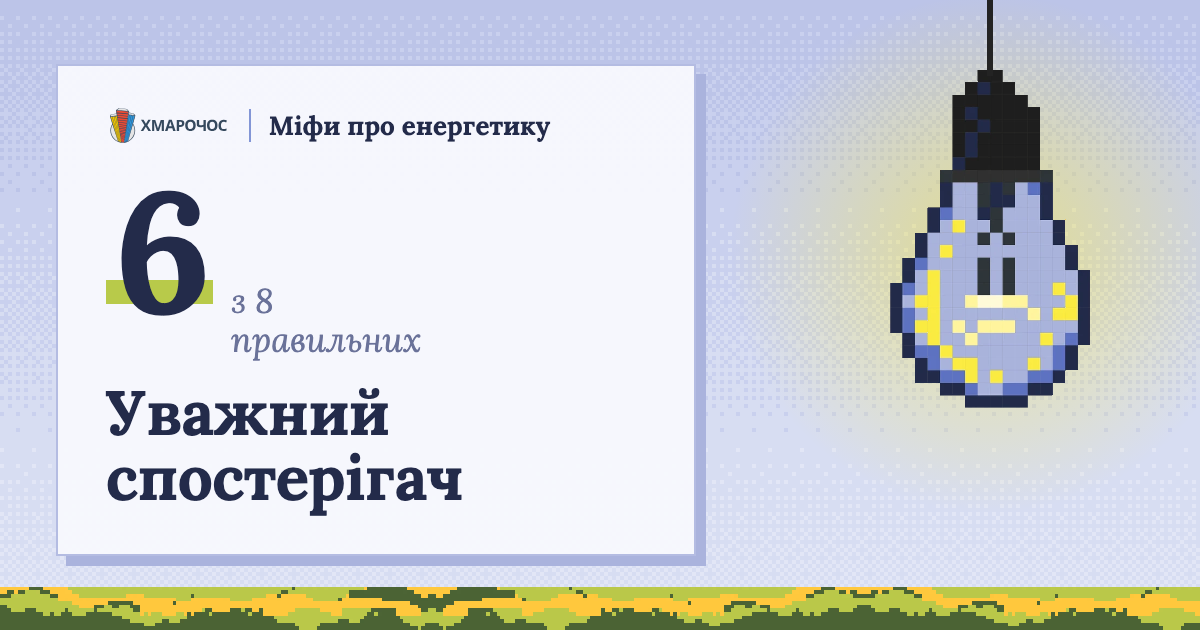
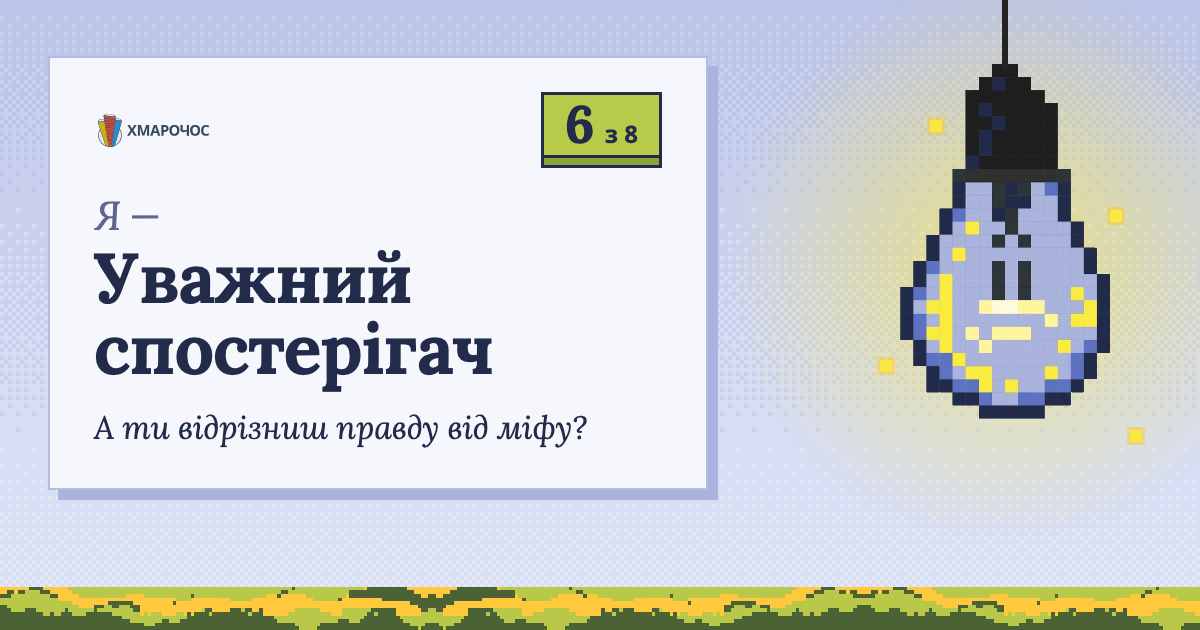
OG під поширення: «Я — <звання>», бали значком, виклик «А ти відрізниш правду від міфу?»; більше простору над кнопками; OG_VERSION 11

Changed region(s): [[0.0308, 0.0905, 0.6167, 0.9048], [0.7092, 0.0, 0.9558, 0.6635], [0.925, 0.6635, 0.9558, 0.7238]]

diff --git a/og-src/og.html b/og-src/og.html
@@ -4,55 +4,61 @@
 <meta charset="utf-8">
 <title>OG</title>
 <!-- OG 1200×630 у стилі «Мережа». Рендерить scripts/render-og.mjs:
-     og.html → public/og-test.png — велика обкладинка ілюстраторки й плашка з назвою;
+     og.html → public/og-test.png — обкладинка ілюстраторки й плашка з назвою та запитанням-викликом;
      og.html?s=<0..8> → public/og-s<N>.png — точні бали; ?l=<slug> → діапазон рівня (старі посилання).
-     Принцип: мало елементів і великі — прев'ю показують дрібно. Обкладинка — у рідній
-     сітці 120×80, збільшена рівно в 7 разів, без розмиття. -->
+     Мета — щоб картинку хотілося переслати: велике «Я — <звання>», бали як ігровий значок,
+     виклик другу «А ти відрізниш правду від міфу?» і великий світний арт рівня. -->
 <style>
 @font-face { font-family: "Open Sans"; src: url("../public/fonts/hm/open-sans-v29-latin_cyrillic-ext-700.woff2") format("woff2"); font-weight: 700; }
 @font-face { font-family: "Lora"; src: url("../public/fonts/hm/lora-v24-latin_cyrillic-ext-700.woff2") format("woff2"); font-weight: 700; }
 @font-face { font-family: "Lora"; src: url("../public/fonts/hm/lora-v24-latin_cyrillic-ext-italic.woff2") format("woff2"); font-weight: 400; font-style: italic; }
-:root { --bg-2: #e6e9f7; --cloud: #aab3dd; --line: #b4bce2; --line-2: #8396d6; --text: #232b4a; --mute: #6a7299; --amber: #f8e840; --amber-2: #fcc63d; --grass: #b8ca4a; --forest: #4d6135; }
+:root { --bg-2: #e6e9f7; --cloud: #aab3dd; --line: #b4bce2; --line-2: #8396d6; --text: #232b4a; --mute: #5d6590; --amber: #f8e840; --amber-2: #fcc63d; --grass: #b8ca4a; --forest: #4d6135; }
 * { box-sizing: border-box; }
 body { margin: 0; width: 1200px; height: 630px; overflow: hidden; position: relative; color: var(--text); font-family: "Open Sans", sans-serif;
   background: url("../public/art/px/sky.png") repeat-x left top / 32px 800px, #e2e6f6; image-rendering: pixelated; }
 .px { image-rendering: pixelated; display: block; }
 .ground { position: absolute; left: 0; right: 0; bottom: 0; height: 72px; background: url("../public/art/px/hills-day.png") repeat-x left bottom / auto 100%; image-rendering: pixelated; }
 body.night .ground { background-image: url("../public/art/px/hills-night.png"); }
-/* плашка: світла, тонка лінія, жорстка піксельна тінь — як на сайті */
 .card { position: absolute; background: rgba(247,248,253,.97); border: 2px solid var(--line); box-shadow: 10px 10px 0 var(--cloud); }
-.logo { height: 46px; display: block; }
-
-/* ——— старт: обкладинка велика праворуч, плашка з назвою заходить на неї ——— */
-.start .cover { position: absolute; right: 0; bottom: 0; width: 720px; height: 480px; }
-.start .card { left: 48px; top: 80px; width: 470px; padding: 36px 40px 42px; }
-.start h1 { margin: 26px 0 0; font: 700 60px/1.03 "Lora", serif; letter-spacing: -.015em; }
-.cta { display: inline-flex; align-items: center; gap: 22px; margin-top: 30px; height: 76px; padding: 0 30px 6px; background: var(--amber); font-weight: 700; font-size: 27px;
+.logo { height: 44px; display: block; }
+/* піксельна кнопка/значок — рамка 3 px і фаска знизу, як на сайті */
+.pxbtn { display: inline-flex; align-items: center; gap: 18px; height: 72px; padding: 0 28px 6px; background: var(--amber); font-weight: 700; font-size: 26px;
   box-shadow: inset 0 0 0 3px var(--text), inset 0 -10px 0 0 var(--amber-2), inset 0 -10px 0 3px var(--text); }
+.hook { font: italic 400 32px/1.3 "Lora", serif; color: var(--mute); }
 
-/* ——— результат: великі бали й звання на плашці, праворуч великий арт рівня ——— */
+/* ——— старт ——— */
+.start .cover { position: absolute; right: 0; bottom: 0; width: 720px; height: 480px; }
+.start .card { left: 48px; top: 64px; width: 500px; padding: 34px 40px 40px; }
+.start h1 { margin: 24px 0 0; font: 700 58px/1.03 "Lora", serif; letter-spacing: -.015em; }
+.start .hook { margin: 16px 0 0; }
+.start .pxbtn { margin-top: 26px; }
+
+/* ——— результат ——— */
 .lvl { display: none; }
 body.level .start { display: none; }
 body.level .lvl { display: block; }
-.lvl .card { left: 56px; top: 64px; width: 640px; padding: 36px 48px 44px; }
-/* шапка плашки — як на сайті: лого й назва тесту через тонку риску */
-.brand { display: flex; align-items: center; gap: 18px; }
-.brand span { padding-left: 18px; border-left: 2px solid var(--line-2); font: 700 26px "Lora", serif; }
-.lvl .score { margin-top: 30px; }
-.score { display: flex; align-items: baseline; gap: 18px; margin-top: 4px; }
-.score b { font: 700 170px/.86 "Lora", serif; letter-spacing: -.04em; padding: 0 8px; background: linear-gradient(transparent 70%, var(--grass) 70% 86%, transparent 86%); }
-.score span { font: italic 400 34px/1.15 "Lora", serif; color: var(--mute); }
-.lvl h1 { margin: 22px 0 0; font: 700 62px/1.04 "Lora", serif; letter-spacing: -.01em; }
+.lvl .card { left: 48px; top: 56px; width: 660px; padding: 34px 44px 40px; }
+.lvl .top { display: flex; align-items: center; justify-content: space-between; }
+/* бали — як ігровий значок */
+.badge { display: inline-flex; align-items: baseline; gap: 10px; height: 76px; padding: 6px 24px 10px; background: var(--grass);
+  box-shadow: inset 0 0 0 3px var(--text), inset 0 -10px 0 0 #8aa23a, inset 0 -10px 0 3px var(--text); }
+.badge b { font: 700 52px/1 "Lora", serif; }
+.badge span { font: 700 24px "Open Sans"; }
+.lvl h1 { margin: 26px 0 0; font: 700 70px/1.02 "Lora", serif; letter-spacing: -.015em; }
+.lvl h1 .me { display: block; font: italic 400 40px/1.1 "Lora", serif; color: var(--mute); margin-bottom: 4px; }
+.lvl .hook { margin: 22px 0 0; color: var(--text); }
+/* великий арт рівня з ореолом */
 .art { position: absolute; display: grid; place-items: center; }
 .art img { position: relative; display: block; }
-.art::before { content: ""; position: absolute; left: 50%; top: 50%; width: 520px; height: 520px; transform: translate(-50%, -50%); background: radial-gradient(closest-side, rgba(248,232,64,.55), rgba(248,232,64,0)); }
-.art.warm::before { background: radial-gradient(closest-side, rgba(252,150,50,.5), rgba(252,150,50,0)); }
-/* лампочка висить на шнурі від верхнього краю картинки */
-.art.bulb { right: 110px; top: 0; padding-top: 70px; }
-.art.bulb::after { content: ""; position: absolute; left: 50%; top: 0; width: 6px; height: 76px; transform: translateX(-50%); background: #232323; }
+.art::before { content: ""; position: absolute; left: 50%; top: 50%; width: 560px; height: 560px; transform: translate(-50%, -50%); background: radial-gradient(closest-side, rgba(248,232,64,.6), rgba(248,232,64,0)); }
+.art.warm::before { background: radial-gradient(closest-side, rgba(252,150,50,.55), rgba(252,150,50,0)); }
+.art.bulb { right: 90px; top: 0; padding-top: 64px; }
+.art.bulb::after { content: ""; position: absolute; left: 50%; top: 0; width: 6px; height: 70px; transform: translateX(-50%); background: #232323; }
 .art.bulb::before { top: 62%; }
-.art.candle { right: 150px; bottom: 50px; }
-.art.battery { right: 40px; bottom: 120px; }
+.art.candle { right: 140px; bottom: 50px; }
+.art.battery { right: 30px; bottom: 140px; }
+/* іскри навколо арту — пікселі */
+.spark { position: absolute; width: 12px; height: 12px; background: var(--amber); box-shadow: 0 0 0 3px rgba(252,198,61,.5); }
 </style>
 </head>
 <body>
@@ -61,25 +67,30 @@ body.level .lvl { display: block; }
     <div class="card">
       <img class="logo" src="../public/hmarochos_logo_new.svg" alt="">
       <h1>Міфи про українську енергетику</h1>
-      <div class="cta">Пройти тест <svg viewBox="0 0 9 8" width="26" height="23" shape-rendering="crispEdges"><path d="M5 0h1v1H5zM5 1h2v1H5zM5 2h3v1H5zM0 3h9v2H0zM5 5h3v1H5zM5 6h2v1H5zM5 7h1v1H5z" fill="currentColor"/></svg></div>
+      <p class="hook">8 тверджень. Відрізниш правду від міфу?</p>
+      <div class="pxbtn">Пройти тест <svg viewBox="0 0 9 8" width="26" height="23" shape-rendering="crispEdges"><path d="M5 0h1v1H5zM5 1h2v1H5zM5 2h3v1H5zM0 3h9v2H0zM5 5h3v1H5zM5 6h2v1H5zM5 7h1v1H5z" fill="currentColor"/></svg></div>
     </div>
   </div>
 
   <div class="lvl">
     <div class="ground"></div>
     <div class="art" id="art"><img id="artImg" alt=""></div>
+    <div id="sparks"></div>
     <div class="card">
-      <div class="brand"><img class="logo" src="../public/hmarochos_logo_new.svg" alt=""><span>Міфи про енергетику</span></div>
-      <div class="score"><b id="score"></b><span>з 8<br>правильних</span></div>
-      <h1 id="title"></h1>
+      <div class="top">
+        <img class="logo" src="../public/hmarochos_logo_new.svg" alt="">
+        <div class="badge"><b id="score"></b><span>з 8</span></div>
+      </div>
+      <h1><span class="me">Я —</span><span id="title"></span></h1>
+      <p class="hook">А ти відрізниш правду від міфу?</p>
     </div>
   </div>
 
 <script>
   const LEVELS = {
-    hostage: { title: "Заручник інфопростору", range: "0–3", max: 3, art: "candle", w: 170, warm: true },
-    observer: { title: "Уважний спостерігач", range: "4–6", max: 6, art: "bulb", w: 200 },
-    analyst: { title: "Енергетичний аналітик", range: "7–8", max: 8, art: "battery", w: 420 },
+    hostage: { title: "Заручник інфопростору", range: "0–3", max: 3, art: "candle", w: 180, warm: true },
+    observer: { title: "Уважний спостерігач", range: "4–6", max: 6, art: "bulb", w: 210 },
+    analyst: { title: "Енергетичний аналітик", range: "7–8", max: 8, art: "battery", w: 430 },
   };
   // ?s=<бали> — точна кількість; ?l=<рівень> — діапазон рівня
   const qs = new URLSearchParams(location.search);
@@ -96,6 +107,9 @@ body.level .lvl { display: block; }
     const img = document.getElementById("artImg");
     img.src = `../public/art/${l.art === "bulb" ? "bulb-lamp" : l.art}.webp`;
     img.style.width = l.w + "px";
+    // кілька піксельних іскор навколо арту
+    const pts = { bulb: [[930, 120], [1110, 210], [880, 360], [1130, 430]], candle: [[870, 200], [1080, 150], [1120, 330]], battery: [[800, 190], [1150, 200], [860, 420]] }[l.art];
+    document.getElementById("sparks").innerHTML = pts.map(([x, y]) => `<i class="spark" style="left:${x}px;top:${y}px"></i>`).join("");
   } else {
     document.querySelector(".lvl").remove();
   }

diff --git a/app/skins/grid/grid.css b/app/skins/grid/grid.css
@@ -379,7 +379,7 @@
 }
 
 .nm .hero .cta {
-  margin-top: 30px;
+  margin-top: 40px;
   width: 100%;
 }
 
@@ -1069,7 +1069,7 @@ html:has(.nm) {
 }
 
 .nm .ver .cta {
-  margin-top: 20px;
+  margin-top: 34px;
 }
 
 /* лампочка висить на шнурі, прив'язаному до верхнього краю плашки */

diff --git a/app/share.ts b/app/share.ts
@@ -19,4 +19,4 @@ export function scoreShareUrl(score: number): string {
 }
 
 /** Версія OG-картинок: міняємо, коли картинки перемальовано, щоб соцмережі взяли нові. */
-export const OG_VERSION = "10";
+export const OG_VERSION = "11";
